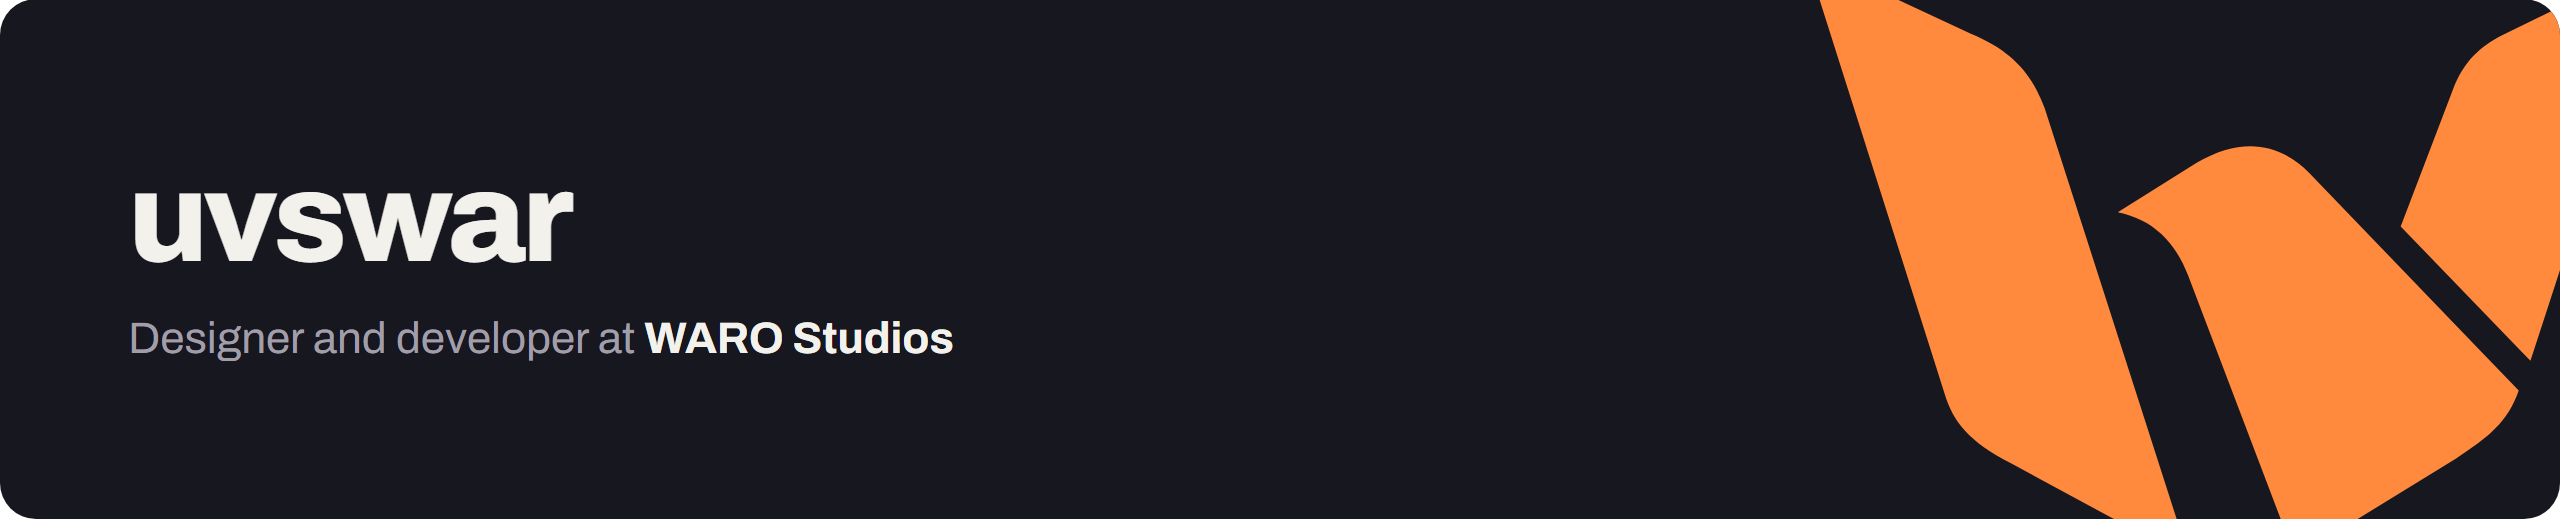
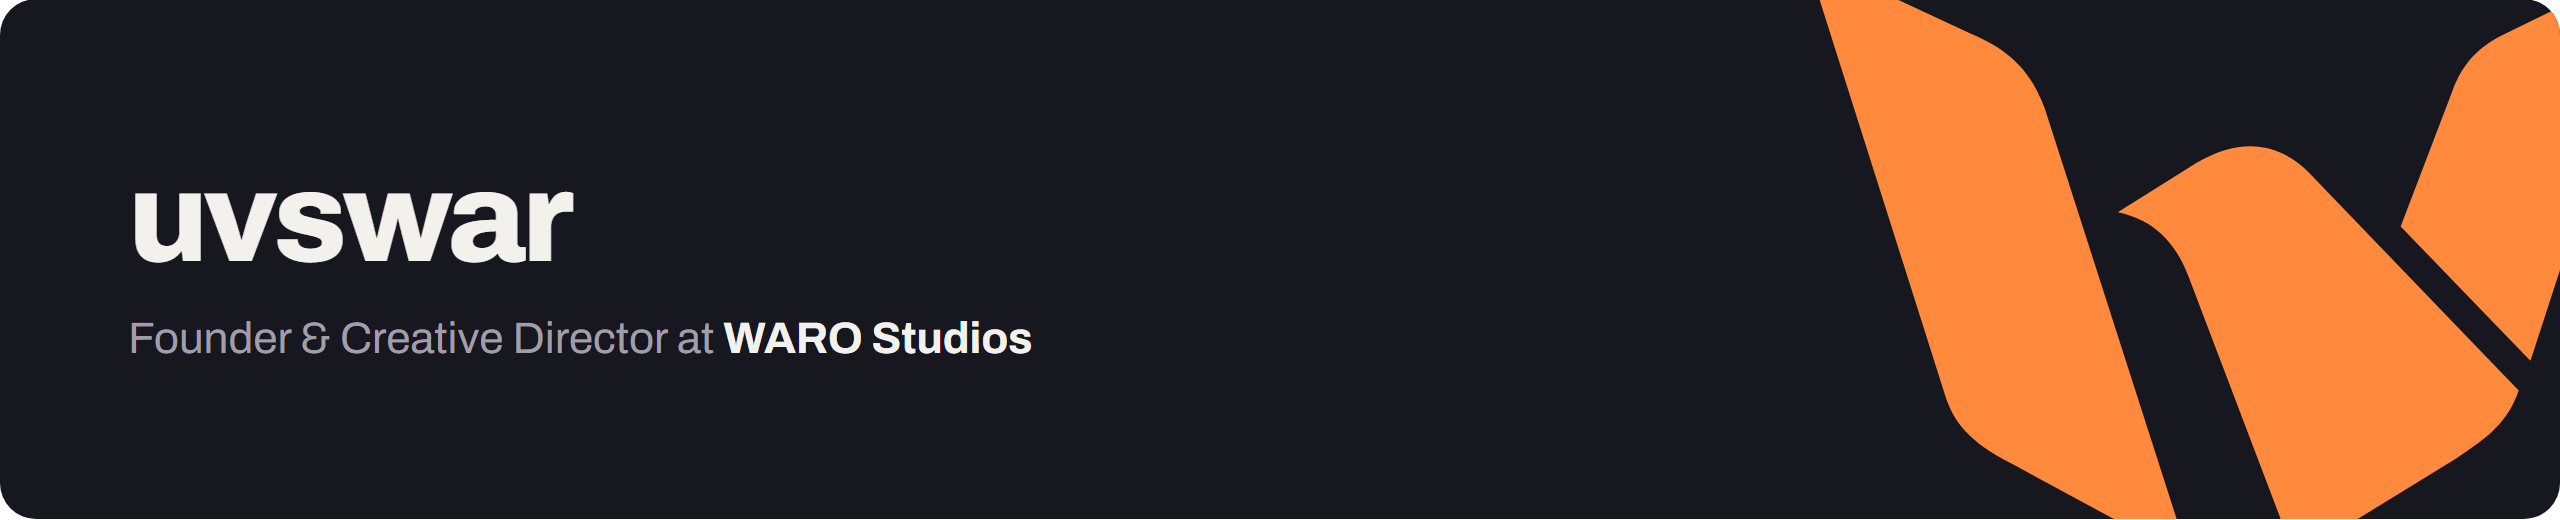
Founder & Creative Director

Changed region(s): [[0.0312, 0.6154, 0.4062, 0.7077]]

diff --git a/README.md b/README.md
@@ -1,5 +1,5 @@
-<img src="img/me.png" alt="uvswar, designer and developer at WARO Studios" width="100%">
+<img src="img/me.png" alt="uvswar, Founder & Creative Director at WARO Studios" width="100%">
 
-I design and build FiveM scripts at **[WARO Studios](https://github.com/waro-studios)**: cozy, immersive resources with handcrafted interfaces.
+Founder & Creative Director at **[WARO Studios](https://github.com/waro-studios)**. We make cozy, immersive FiveM scripts with handcrafted interfaces.
 
 <a href="https://warostudios.com"><b>warostudios.com</b></a> &nbsp;·&nbsp; <a href="https://discord.gg/uEVRKeYS3C">Discord</a>
